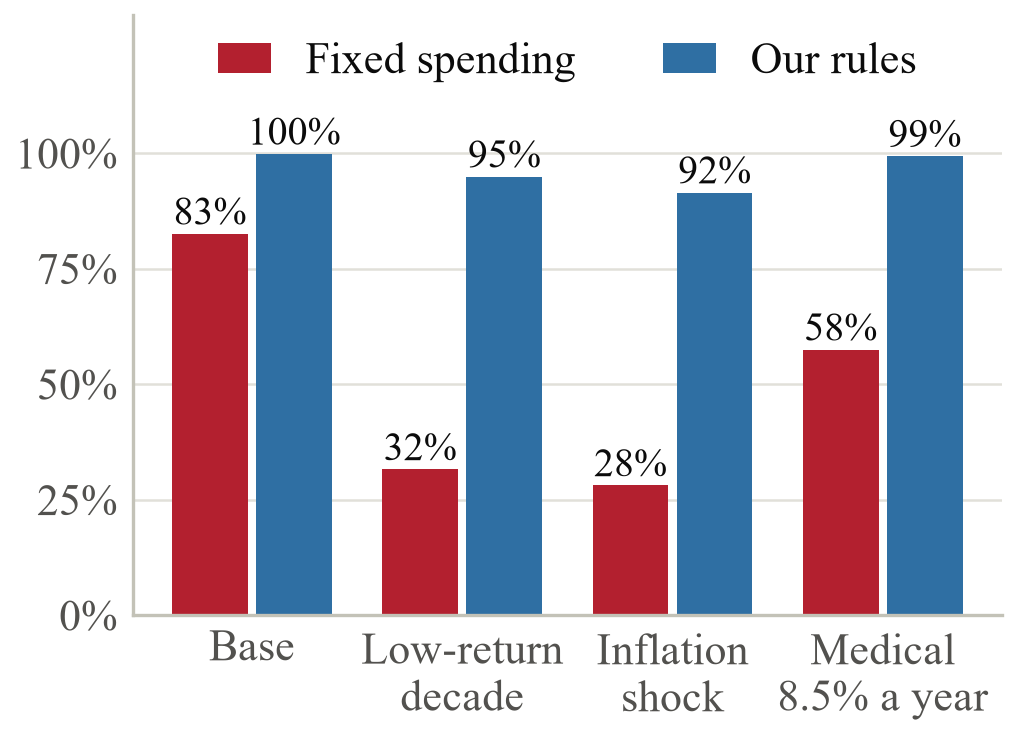
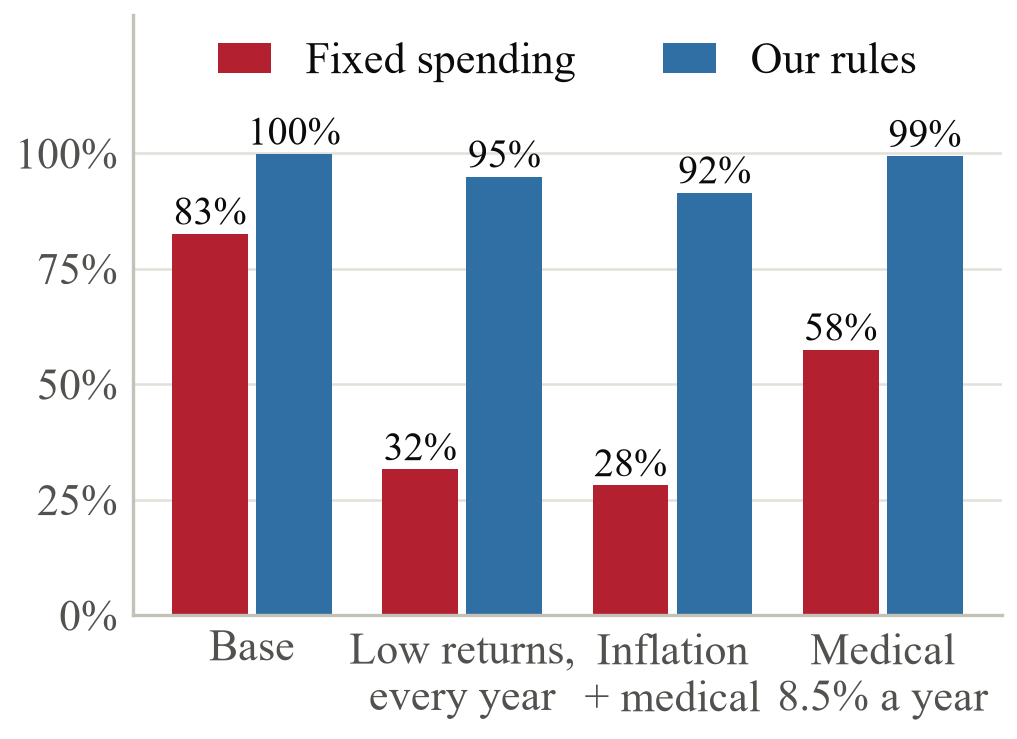
Fix conflict markers from the main merge; apply Fahtai's model review M1-M4
- model/run_model.py: restore the current model (as at b5b5176); the merge
  had committed unresolved conflict markers, so the model could not run.
  .gitignore: keep both sides. make_charts rerun: numbers.json identical.
- M1: the "low-return decade" stress runs every year to 2066; relabelled
  on p13, Fig 25-27 and A1 (no number change).
- M2: Fig 25 scenario B relabelled "Inflation + medical".
- M3: A1 row for the business sale (HK$3.0M in 2039, one payment).
- M4: A1 cash row marked as education fund only.

15 pages, every page fits. Log in reviews/applied.md.

Changed region(s): [[0.3353, 0.8403, 0.5792, 0.9026], [0.5792, 0.9026, 0.762, 0.9648], [0.3658, 0.9337, 0.5487, 0.9648]]

diff --git a/document/proposal-v3.html b/document/proposal-v3.html
@@ -530,7 +530,7 @@
 <section class="page">
   <div class="content">
     <div class="kicker"><span class="n">11</span>Risk and compliance</div>
-    <h2 class="finding">Before retirement the largest risk is lost income; after it, a low-return decade and inflation.</h2>
+    <h2 class="finding">Before retirement the largest risk is lost income; after it, low returns and inflation.</h2>
     <div class="annot">
       <div class="fig">
         <div class="fig-title"><span class="fig-label">Figure 25</span>The plan holds under stress</div>
@@ -553,7 +553,7 @@
           <div></div>
           <div class="axis" style="grid-column:2/5">Likelihood →</div>
         </div>
-        <div class="fig-src">Our rules: tier review at 75 plus guardrails (§3). In a low-return decade they trim spending to about 86% of the budget, not let it run out.</div>
+        <div class="fig-src">Our rules: tier review at 75 plus guardrails (§3). With low returns every year they trim spending to about 86% of the budget, not let it run out.</div>
       </div>
     </div>
     <div class="fig">
@@ -564,7 +564,7 @@
         <tbody>
           <tr><td><b>F1</b></td><td>Inflation 3.5%, not 2.5%</td><td class="n">49%</td><td class="n">96%</td><td>Guardrails; shorter bonds</td></tr>
           <tr><td><b>F2</b></td><td>Medical costs 8.5% a year</td><td class="n">58%</td><td class="n">99%</td><td>Tier review at 75</td></tr>
-          <tr><td><b>F3</b></td><td>A low-return decade</td><td class="n">32%</td><td class="n">95%</td><td>Guardrails; Treasury ladder</td></tr>
+          <tr><td><b>F3</b></td><td>Low returns every year</td><td class="n">32%</td><td class="n">95%</td><td>Guardrails; Treasury ladder</td></tr>
           <tr><td><b>F4</b></td><td>Business not sold</td><td class="n">66%</td><td class="n">100%</td><td>Buy-sell agreement now</td></tr>
           <tr><td><b>F5</b></td><td>Carmen lives to 95</td><td class="n">61%</td><td class="n">99%</td><td>Annuities pay for life</td></tr>
           <tr><td><b>F6</b></td><td>Money runs out, base case</td><td class="n">83%</td><td class="n">100%</td><td>Annual review; agreed steps</td></tr>
@@ -613,15 +613,16 @@
       <tbody>
         <tr><td>CPI</td><td>2.5%</td><td>3.5%</td><td>HK CPI 2006–25</td></tr>
         <tr><td>Medical costs</td><td>10% → 6% by 2036, plus VHIS age curve</td><td>8.5% flat</td><td>Getzen; WTW</td></tr>
-        <tr><td>Equities</td><td>6.0%, 17% volatility</td><td>4.0%</td><td>Long-run history</td></tr>
+        <tr><td>Equities</td><td>6.0%, 17% volatility</td><td>4.0%, all years</td><td>Long-run history</td></tr>
         <tr><td>Bonds, ladder</td><td>4.0%</td><td>2.5%</td><td>US 5-year 5.0%</td></tr>
-        <tr><td>Cash</td><td>3.0% → 2.5% by 2031</td><td>0.5%</td><td>HIBOR; Fed</td></tr>
+        <tr><td>Cash</td><td>3.0% → 2.5% by 2031</td><td>—</td><td>Education fund</td></tr>
         <tr><td>Model mix</td><td>40% equity for all the parents' money</td><td>—</td><td>Plan holds ≈50%</td></tr>
         <tr><td>MPF annuities</td><td>Single life: HK$161K Adrian 2037, HK$107K Carmen 2039</td><td>—</td><td>HKMC rates</td></tr>
+        <tr><td>Business sale</td><td>HK$3.0M in 2039, one payment</td><td>Not sold</td><td>Case, less 40%</td></tr>
         <tr><td>Mortgage</td><td>≈HK$0.46M still owed, cleared in 2037</td><td>—</td><td>Case; derived</td></tr>
         <tr><td>Reverse mortgage</td><td>HK$230K a year for life from 2037</td><td>From 2045</td><td>HKMC</td></tr>
-        <tr><td>New cover</td><td>≈HK$100K in year 1; HK$114K a year on average</td><td>—</td><td>Rate cards</td></tr>
-        <tr><td>Medical tier</td><td>Standard plan from 2047, same insurer</td><td>Flexi for life</td><td>Insurer terms</td></tr>
+        <tr><td>New cover</td><td>≈HK$100K year 1; HK$114K average</td><td>—</td><td>Rate cards</td></tr>
+        <tr><td>Medical tier</td><td>Standard plan from 2047, same insurer</td><td>No review</td><td>Insurer terms</td></tr>
         <tr><td>Guardrails</td><td>From 2039: ±10% when withdrawals drift 20%; never below 70% of target</td><td>Fixed</td><td>Guyton–Klinger</td></tr>
         <tr><td>After a death</td><td>70% of HK$780K after Adrian's 84</td><td>100%</td><td>Family choice</td></tr>
         <tr><td>Life expectancy</td><td>Adrian 84, Carmen 89</td><td>Carmen 95</td><td>Case</td></tr>

diff --git a/model/run_model.py b/model/run_model.py
@@ -1,14 +1,6 @@
 """
-<<<<<<< HEAD
-Wong Family model — Python layer (simple version, 3 mixes).
-SUPERSEDED for the proposal's retirement numbers by plan_model.py, which adds medical
-premiums, new cover, survivor spending, business sale, home release, tier review and guardrails.
-Fixed 1 Oct: annuity no longer CPI-indexed; premiums no longer double-counted.
-Reads EVERY assumption from wong_model.xlsx  ->  Inputs tab.
-=======
 Wong Family model — Python layer.
 Reads EVERY assumption from wong_model.xlsx  ->  Inputs tab (and the Medical age curve).
->>>>>>> origin/pete/model-fix-drafts-figures
 Never hardcode an assumption here. Change the spreadsheet instead.
 
 Usage:  python3 run_model.py          (prints sections 1-9)
@@ -94,10 +86,6 @@ def mpf_in(y):
     working = (y < RETA) + (y < RETC)
     return 2 * MPF_CAP * working
 # Carmen works two years past Adrian's retirement - the Excel Projection counts this, so we must too
-<<<<<<< HEAD
-C_TAX    = 71_335   # Carmen, separate assessment (Tax tab CHECK value)
-CARMEN_NET = C_SAL - C_TAX - MPF_CAP
-=======
 C_TAX    = WB["Tax"]["C13"].value
 CARMEN_NET = C_SAL - C_TAX - MPF_CAP
 
@@ -139,7 +127,6 @@ def _check_against_workbook():
     if drift > 1:
         sys.exit(f"Medical line differs from the Projection tab by {drift:,.0f}. Recalculate the workbook.")
 _check_against_workbook()
->>>>>>> origin/pete/model-fix-drafts-figures
 
 # ---------- goal funding ----------
 pv = lambda p,r,n: p*(1-(1+r)**-n)/r
@@ -180,15 +167,6 @@ def sim(w_eq, s_bd, r_bd, end, annuity, med=None, surv=1.0, biz=0, rmp=0, r_eq=N
         y = BY + i
         r = w_eq*rng.normal(r_eq, S_EQ, n) + (1-w_eq)*rng.normal(r_bd, s_bd, n)
         worst = np.minimum(worst, r); pot = pot*(1+r)
-<<<<<<< HEAD
-        if y == RETA and annuity: pot -= ANN_COST
-        if y < RETA: pot += SURPLUS*(1+WAGE)**i          # SURPLUS is already net of premiums
-        else:
-            pot -= SPEND*(1+CPI)**i - (ANN_INC if annuity else 0)   # HKMC annuity is fixed in nominal terms
-            if y < RETC: pot += CARMEN_NET*(1+WAGE)**i   # Carmen still earning
-        pot = np.maximum(pot, 0); alive &= pot > 0
-    return alive.mean(), worst.mean(), np.percentile(pot, 50)
-=======
         if annuity and y == RETA: pot -= ANN_A_COST
         if annuity and y == RETC: pot -= ANN_C_COST
         if y == RETA: pot -= MORT                           # mortgage still owed, cleared at retirement
@@ -232,7 +210,6 @@ def sim(w_eq, s_bd, r_bd, end, annuity, med=None, surv=1.0, biz=0, rmp=0, r_eq=N
                     levels=np.array(lvl_hist), level_years=np.array(lvl_years))
     out = (alive.mean(), worst.mean(), np.percentile(pot, 50))
     return out + (track,) if paths else out
->>>>>>> origin/pete/model-fix-drafts-figures
 
 MIXES = {"1. All-Treasury ladder":       (0.00, 0.02, R_LAD),
          "2. 40/60 equity / ladder":     (0.40, 0.02, R_LAD),

diff --git a/model/make_charts.py b/model/make_charts.py
@@ -189,8 +189,8 @@ DATA.append((f"sensitivity-tornado.png: one change at a time to the full plan (b
 
 # 6 ---------- stress scenarios ----------
 SC = [("Full plan,\nbase assumptions", FULL, M.R_LAD),
-      ("A. Low-return\ndecade", {**FULL, "r_eq": M.ST_EQ}, M.ST_BD),
-      ("B. Inflation\nshock", {**FULL, "cpi": M.ST_CPI, "med": M.STRESS}, M.R_LAD),
+      ("A. Low returns\nevery year", {**FULL, "r_eq": M.ST_EQ}, M.ST_BD),   # stress applies 2026-2066, not a decade
+      ("B. Inflation +\nmedical costs", {**FULL, "cpi": M.ST_CPI, "med": M.STRESS}, M.R_LAD),
       ("C. Medical costs\n8.5% a year", {**FULL, "med": M.STRESS}, M.R_LAD)]
 s89 = [M.sim(MIX2[0], MIX2[1], rb, C89, **kw)[0] for _, kw, rb in SC]
 s95 = [M.sim(MIX2[0], MIX2[1], rb, C95, **kw)[0] for _, kw, rb in SC]
@@ -378,7 +378,7 @@ with plt.rc_context({"font.size": 10.5}):
     for xi, a_, b_ in zip(x, s89, r89):
         ax.text(xi - w_/2 - 0.02, a_ + 0.02, pct(a_), ha="center", fontsize=9.5, color=INK)
         ax.text(xi + w_/2 + 0.02, b_ + 0.02, pct(b_), ha="center", fontsize=9.5, color=INK)
-    ax.set_xticks(x, ["Base", "Low-return\ndecade", "Inflation\nshock", "Medical\n8.5% a year"])
+    ax.set_xticks(x, ["Base", "Low returns,\nevery year", "Inflation\n+ medical", "Medical\n8.5% a year"])
     ax.set_ylim(0, 1.3); ax.set_yticks([0, .25, .5, .75, 1])
     ax.yaxis.set_major_formatter(matplotlib.ticker.PercentFormatter(1.0, decimals=0))
     tidy(ax, "y"); ax.legend(loc="upper center", ncol=2, handlelength=1.2, bbox_to_anchor=(0.5, 1.02))

diff --git a/reviews/applied.md b/reviews/applied.md
@@ -80,3 +80,17 @@ N30 · No change needed · the "about HK$4K" figure is not on the page
 N31 · Applied · p8 · "Rows rounded." added to the Fig 17 note (rows add to 2.64; exact 2.6326). Fallback 20.2% → 20.1% in the manuscript (the page says "above 20%"). Fig 17 note tail "where it is today" → "at today's 11%" (fit).
 N32 · No change needed · page claim "a small extra cost in fees" stays true
 N33 · No page change · Sun Life FER ≈1.19% (not the 1.02% fee) recorded in Win's notes; open item: each parent's current MPF fund and FER (Pete or Win)
+
+## Round 3 (1 Oct): merge fix and Fahtai's model review (reviews/model-review-fahtai.md, Batch 1)
+
+**Merge fix.** Fahtai's merge into main (bc51065) committed unresolved conflict markers in `model/run_model.py` and
+`.gitignore`, so the model could not run. Resolved (Pete approved): `run_model.py` restored exactly as at b5b5176 (the
+"HEAD" side was the superseded simple version; Fahtai's own review confirms the current model and keeps its rebuild in
+`model/plan_model.py`, which stays); `.gitignore` keeps both sides. `make_charts.py` rerun: `numbers.json` identical.
+
+Each finding checked against the code before applying:
+M1 · Applied · confirmed: `sim()` applies `r_eq=ST_EQ`, `r_bd=ST_BD` to every year (run_model.py line 168), not a decade. Option a (relabel, no number change): p13 heading "a low-return decade" → "low returns"; Fig 27 F3 → "Low returns every year"; Fig 26 note "In a low-return decade" → "With low returns every year"; Fig 25 tick "Low returns, every year"; A1 equities stress "4.0%, all years".
+M2 · Applied · confirmed: Fig 25 B is `stressB_89` (CPI 3.5% + medical stress), F1 is CPI alone. Fig 25 tick "Inflation + medical"; scenario name in `make_charts.py` "B. Inflation + medical costs".
+M3 · Applied · confirmed: `pot += biz` once in 2039 (line 199), HK$3.0M unindexed ≈ HK$2.2M today. A1 new row "Business sale · HK$3.0M in 2039, one payment · Not sold · Case, less 40%".
+M4 · Applied · confirmed: no cash rate in the simulation; 3% is the education discount. A1 cash row stress "0.5%" → "—", source "HIBOR; Fed" → "Education fund".
+Fit on p15: "Flexi for life" → "No review"; new-cover cell "≈HK$100K year 1; HK$114K average". Render: 15 pages, all fit (p13 4.8, p15 6.6 mm free).

diff --git a/figures/figure-data.md b/figures/figure-data.md
@@ -69,8 +69,8 @@ Model budget: HK$600K today, escalated 5% a year = HK$662K in 2028/29.
 | Scenario | to 89 | to 95 |
 |---|---|---|
 | Full plan, base assumptions | 83% | 61% |
-| A. Low-return decade | 32% | 11% |
-| B. Inflation shock | 28% | 9% |
+| A. Low returns every year | 32% | 11% |
+| B. Inflation + medical costs | 28% | 9% |
 | C. Medical costs 8.5% a year | 58% | 26% |
 
 A: equities 4.0%, ladder 2.5% · B: CPI 3.5% with medical 8.54% flat · C: medical 8.54% flat (read the 95 column).
@@ -107,6 +107,6 @@ Target = emergency 1,000,000 + education 2,567,698 (half deposits, half short bo
 | Scenario | Fixed spending | Recommended plan |
 |---|---|---|
 | Full plan, base assumptions | 83% | 100% |
-| A. Low-return decade | 32% | 95% |
-| B. Inflation shock | 28% | 92% |
+| A. Low returns every year | 32% | 95% |
+| B. Inflation + medical costs | 28% | 92% |
 | C. Medical costs 8.5% a year | 58% | 99% |
